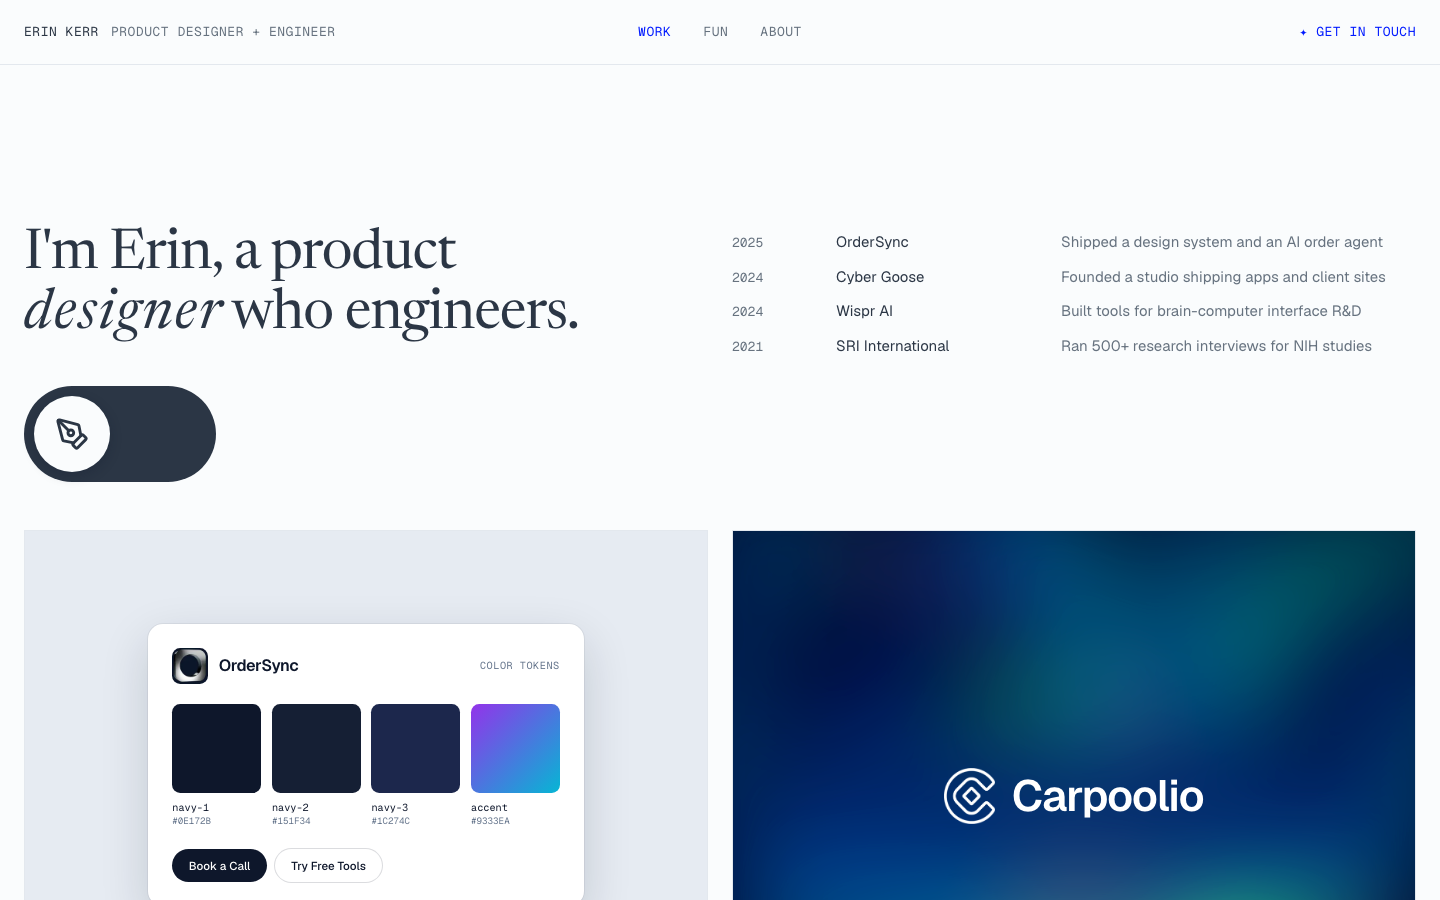
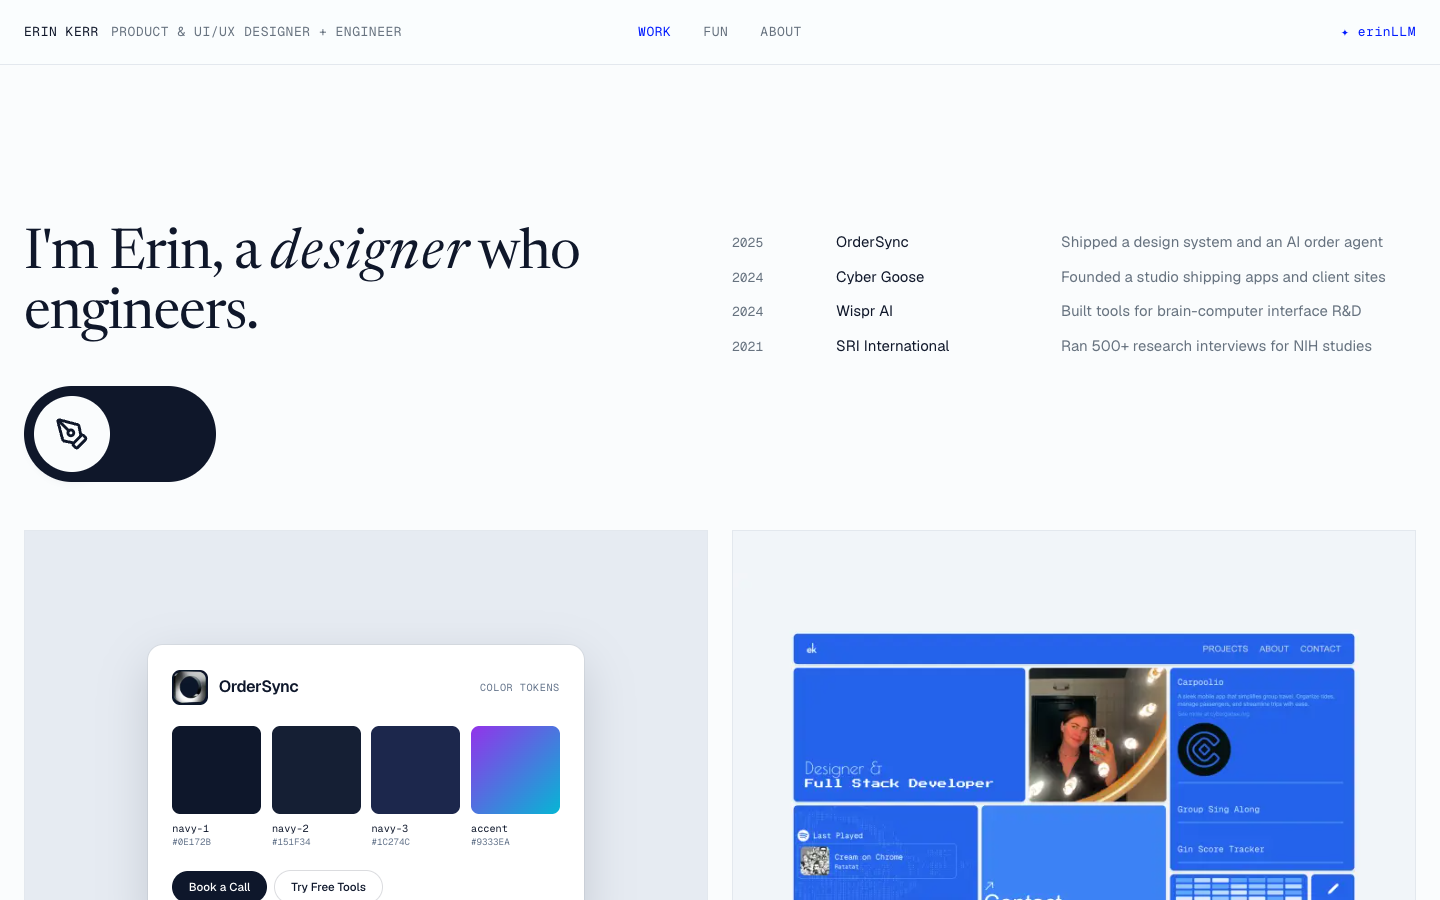
Make the case studies read as finished
Case studies open on the side that's written, so Group Sing Along
opens on engineering instead of "coming soon". Portfolio Redesign's
2026 homepage shots are retaken from the current site, and its
closing to-do line is gone. Group Sing Along's description says built,
not designed. The to-do list gets the open items on the live product
sites.

diff --git a/src/app/portfolioRedesign/Design.tsx b/src/app/portfolioRedesign/Design.tsx
@@ -567,7 +567,7 @@ const SECTIONS: CaseStudySection[] = [
           src={`${IMG}/after-home-full.png`}
           alt="The full 2026 homepage: the headline and switch, the experience list, then 2 columns of project tiles."
           width={1440}
-          height={2384}
+          height={2706}
           caption="The 2026 homepage."
         />
       </>
@@ -595,10 +595,6 @@ const SECTIONS: CaseStudySection[] = [
           20 and pulled the job posts on October 1. Curation turned out to be
           the top portfolio ask, and knowing that sooner might have saved me the
           design page I threw away.
-        </P>
-        <P>
-          Next: finish the reviewer sessions and write the design side of every
-          case study.
         </P>
       </>
     ),

diff --git a/src/app/portfolioRedesign/figures.tsx b/src/app/portfolioRedesign/figures.tsx
@@ -921,7 +921,7 @@ export function BeforeAfter() {
           <p className={label}>2026</p>
           <Image
             src={`${IMG}/after-home-desktop.png`}
-            alt="The 2026 homepage: “I'm Erin, a product designer who engineers.” beside the experience list, the switch below, and the OrderSync and Carpoolio tiles."
+            alt="The 2026 homepage: “I'm Erin, a designer who engineers.” beside the experience list, the switch below, and the OrderSync and Portfolio Redesign tiles."
             width={1440}
             height={900}
             sizes="(min-width: 1024px) 440px, (min-width: 640px) 50vw, 100vw"

diff --git a/src/app/groupSingAlong/page.tsx b/src/app/groupSingAlong/page.tsx
@@ -6,7 +6,7 @@ import Engineering from "./Engineering";
 export const metadata: Metadata = {
   title: "Group Sing Along",
   description:
-    "How Erin Kerr designed Group Sing Along: one host picks a song and every phone in the room opens its lyrics, with no account or download.",
+    "How Erin Kerr built Group Sing Along: one host picks a song and every phone in the room opens its lyrics, with no account or download.",
   alternates: { canonical: "/groupSingAlong" },
 };
 

diff --git a/src/components/site/CaseStudy.tsx b/src/components/site/CaseStudy.tsx
@@ -22,7 +22,10 @@ export default function CaseStudy({
   design?: ReactNode;
   engineering?: ReactNode;
 }) {
-  const [engineer, setEngineer] = useState(engineerFirst);
+  // Opens on the side that's written, so a link never lands on "coming soon".
+  const [engineer, setEngineer] = useState(
+    design && engineering ? engineerFirst : !design,
+  );
   const writeUp = engineer ? engineering : design;
 
   function flip(next: boolean) {

diff --git a/docs/todo.md b/docs/todo.md
@@ -27,7 +27,13 @@ Setup notes and screenshots: `~/Desktop/first-click-test/setup.md`
 
 ## Site
 
-- [ ] Once the homepage's first screen is final, ask Claude to swap the two "In progress" placeholders in the redesign case study (under the Overview, and the 2026 half of the before/after in Results) for real screenshots
+- [x] Swap the "In progress" placeholders in the redesign case study for real screenshots. The 2026 homepage shots in Results were retaken on October 9; if the homepage changes, ask Claude to retake them.
+- [ ] Group Sing Along's design side shows "coming soon" for now (the page opens on the engineering side). Its draft and open questions are in `src/app/groupSingAlong/Design.tsx`.
+
+## Live product sites
+
+- [ ] groupsingalong.com (`~/code/sing-along/groupsingalong/src/app/page.tsx`): take out the 3 placeholder testimonials, the Testimonials nav link, and "Join thousands of families and friends who are already using Group Sing Along".
+- [ ] Hearts Score Tracker's App Store description promises streaks and stats the app doesn't have: rewrite it with the next version.
 - [x] Fix the site-wide link preview in `src/app/layout.tsx`: it still says "Software Engineer & Developer Content Creator" (finding 6 in the redesign case study)
 
 ## Gin Score Tracker case study
